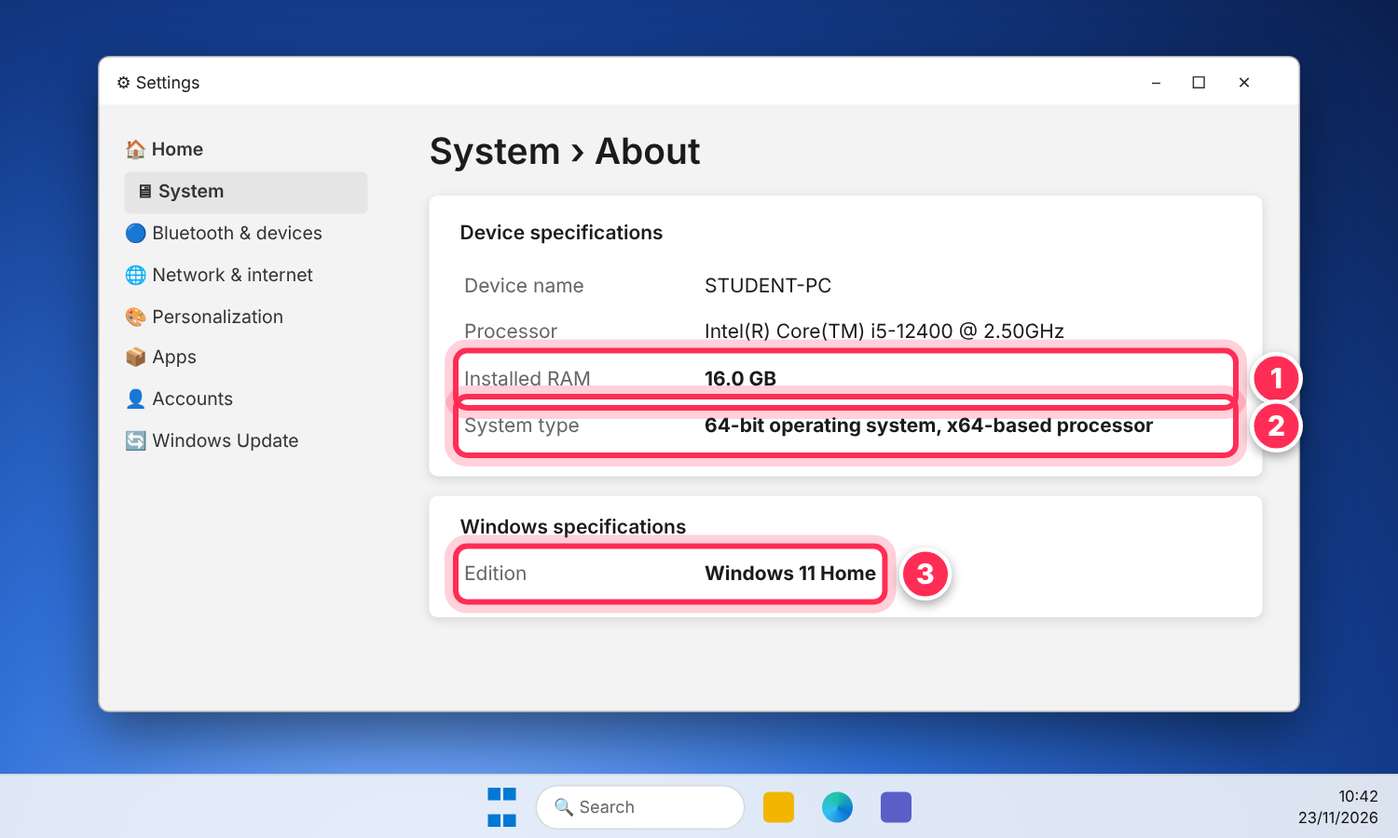
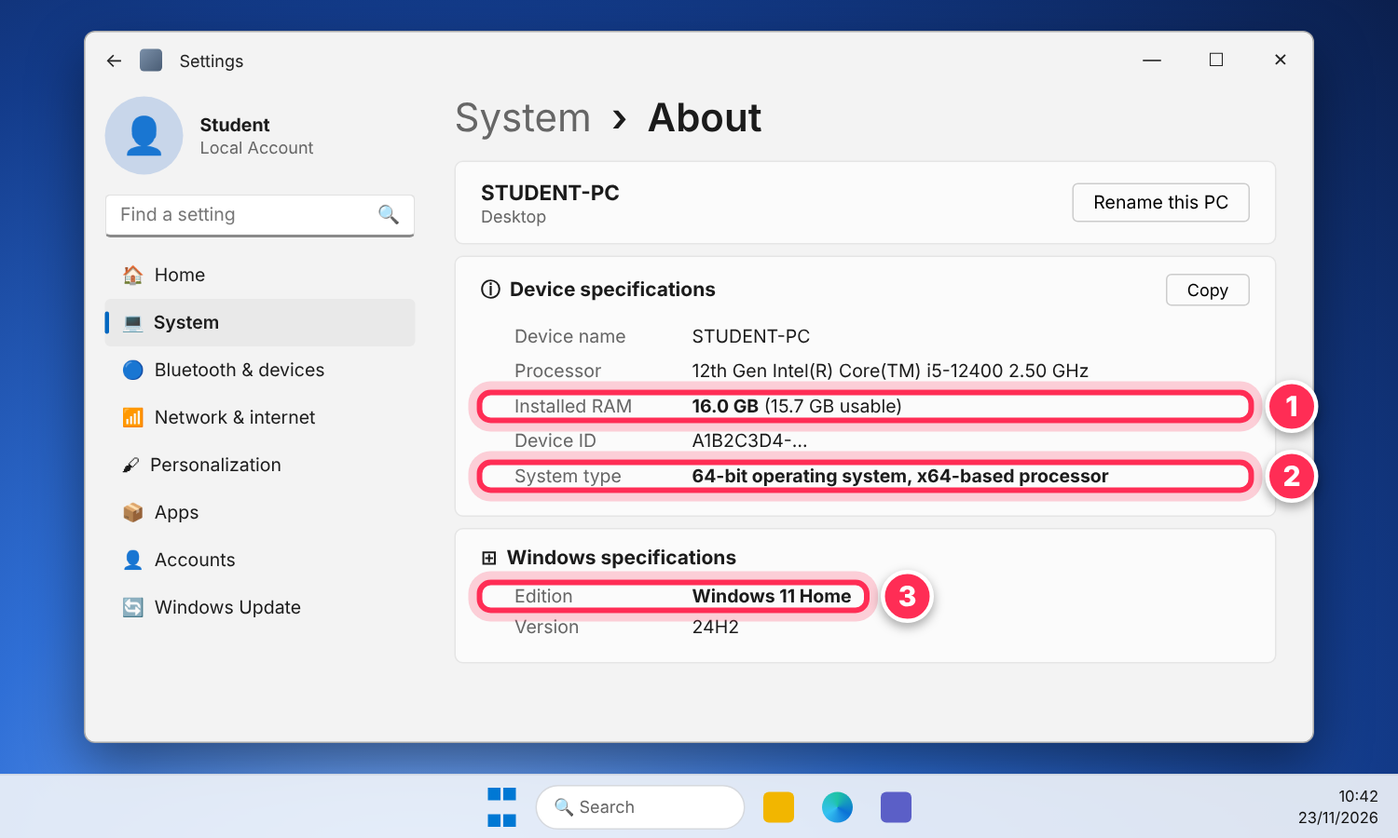
Redraw Windows Settings > About illustration, fix overlapping highlights, cache-bust images
Claude-Session: https://claude.ai/code/session_01HfNHHeuN3o1NZDg6FJ5LBf

Changed region(s): [[0.0307, 0.0311, 0.9507, 0.9333], [0.7667, 0.2178, 0.8893, 0.2489], [0.828, 0.3422, 0.8893, 0.3733]]

diff --git a/index.html b/index.html
@@ -74,7 +74,7 @@
 <li>לחצו על <b>מערכת (System)</b> ואז גללו למטה ולחצו על <b>אודות (About)</b>.</li>
 <li>בדקו את הנתונים המסומנים בתמונה:</li>
 </ol>
-<figure><img alt="חלון הגדרות של Windows – System &gt; About, עם סימון על הזיכרון וסוג המערכת" loading="lazy" src="images/01-system-about.png"/><figcaption>הגדרות ← מערכת ← אודות</figcaption></figure>
+<figure><img alt="חלון הגדרות של Windows – System &gt; About, עם סימון על הזיכרון וסוג המערכת" loading="lazy" src="images/01-system-about.png?v=3"/><figcaption>הגדרות ← מערכת ← אודות</figcaption></figure>
 <table class="req">
 <tr><th>#</th><th>מה בודקים</th><th>מינימום</th><th>מומלץ</th></tr>
 <tr><td>1</td><td>זיכרון (Installed RAM)</td><td>8 GB</td><td>16 GB ומעלה</td></tr>
@@ -94,16 +94,16 @@
 <a class="link-big" href="https://www.autodesk.com/education/edu-software/overview" rel="noopener" target="_blank">autodesk.com/education/edu-software/overview ↗</a></li>
 <li>לחצו על הכפתור השחור <b>Get started</b> (סימון 1).</li>
 </ol>
-<figure><img alt="דף Autodesk Education עם הכפתור Get started מסומן" loading="lazy" src="images/02-education-page.png"/><figcaption>דף התוכנות החינמיות לתלמידים ומורים</figcaption></figure>
+<figure><img alt="דף Autodesk Education עם הכפתור Get started מסומן" loading="lazy" src="images/02-education-page.png?v=3"/><figcaption>דף התוכנות החינמיות לתלמידים ומורים</figcaption></figure>
 <div class="warn"><b>⚠ זהירות מאתרים מזויפים!</b> הורידו <u>רק</u> מהאתר הרשמי <code>autodesk.com</code>. אתרים שמציעים "AutoCAD מלא בחינם" או "קראק" מכילים לעיתים קרובות וירוסים – ובכלל לא צריך אותם, כי לתלמידים זה חינם באופן חוקי.</div>
 </section>
 <!-- STEP 3 -->
 <section class="step" data-step="3" id="s3">
 <header><span class="n">3</span><h2>יצירת חשבון Autodesk</h2><label class="done"><input type="checkbox"/> סיימתי</label></header>
 <p>ייפתח מסך התחברות. אם עוד אין לכם חשבון – לוחצים על <b>Create account</b>.</p>
-<figure><img alt="מסך Sign in של Autodesk עם הקישור Create account מסומן" loading="lazy" src="images/03-sign-in.png"/><figcaption>מסך ההתחברות – לחצו על Create account</figcaption></figure>
+<figure><img alt="מסך Sign in של Autodesk עם הקישור Create account מסומן" loading="lazy" src="images/03-sign-in.png?v=3"/><figcaption>מסך ההתחברות – לחצו על Create account</figcaption></figure>
 <p>עכשיו ממלאים את הפרטים. <b>חשוב למלא נכון</b> – לפי הפרטים האלה Autodesk תבדוק שאתם באמת תלמידים:</p>
-<figure><img alt="טופס Get educational access עם השדות מסומנים 1 עד 5" loading="lazy" src="images/04-create-account.png"/><figcaption>טופס פתיחת חשבון חינוכי</figcaption></figure>
+<figure><img alt="טופס Get educational access עם השדות מסומנים 1 עד 5" loading="lazy" src="images/04-create-account.png?v=3"/><figcaption>טופס פתיחת חשבון חינוכי</figcaption></figure>
 <table class="req fields">
 <tr><th>#</th><th>שדה באנגלית</th><th>מה לבחור / לכתוב</th></tr>
 <tr><td>1</td><td>Country, Territory, or Region</td><td><b>Israel</b></td></tr>
@@ -120,7 +120,7 @@
 <section class="step" data-step="4" id="s4">
 <header><span class="n">4</span><h2>אימות שאתם תלמידים</h2><label class="done"><input type="checkbox"/> סיימתי</label></header>
 <p>Autodesk צריכה לוודא שאתם באמת לומדים במוסד חינוכי. לפעמים זה קורה אוטומטית, ולפעמים יופיע מסך <b>Confirm your education status</b>:</p>
-<figure><img alt="מסך Confirm your education status עם שם בית הספר, העלאת מסמך וכפתור Submit מסומנים" loading="lazy" src="images/05-verify.png"/><figcaption>העלאת אישור לימודים</figcaption></figure>
+<figure><img alt="מסך Confirm your education status עם שם בית הספר, העלאת מסמך וכפתור Submit מסומנים" loading="lazy" src="images/05-verify.png?v=3"/><figcaption>העלאת אישור לימודים</figcaption></figure>
 <ol>
 <li><b>Educational institution name</b> – התחילו להקליד את שם בית הספר באנגלית ובחרו מהרשימה. אם לא מופיע – נסו שם העיר או כתיב אחר, או בקשו מהמורה את השם המדויק.</li>
 <li><b>העלאת מסמך</b> – גררו לכאן, או לחצו על <i>browse</i> ובחרו את הצילום של אישור הלימודים.</li>
@@ -136,7 +136,7 @@
 <section class="step" data-step="5" id="s5">
 <header><span class="n">5</span><h2>קבלת אישור במייל</h2><label class="done"><input type="checkbox"/> סיימתי</label></header>
 <p>כשהאימות יאושר, יגיע מייל מ-<b>Autodesk Education</b> עם כותרת כמו <i>"You're verified for educational access"</i>.</p>
-<figure><img alt="מייל אישור מ-Autodesk Education עם כפתור Get products מסומן" loading="lazy" src="images/06-approved-mail.png"/><figcaption>מייל האישור</figcaption></figure>
+<figure><img alt="מייל אישור מ-Autodesk Education עם כפתור Get products מסומן" loading="lazy" src="images/06-approved-mail.png?v=3"/><figcaption>מייל האישור</figcaption></figure>
 <ol>
 <li>פתחו את המייל (בדקו גם בתיקיית <b>ספאם / קידומי מכירות</b>!).</li>
 <li>לחצו <b>Get products</b> – או פשוט חזרו לכתובת מהשלב השני והתחברו.</li>
@@ -145,7 +145,7 @@
 <!-- STEP 6 -->
 <section class="step" data-step="6" id="s6">
 <header><span class="n">6</span><h2>בחירת AutoCAD מרשימת התוכנות</h2><label class="done"><input type="checkbox"/> סיימתי</label></header>
-<figure><img alt="רשימת תוכנות Autodesk עם שדה חיפוש וכפתור Get product של AutoCAD מסומנים" loading="lazy" src="images/07-products.png"/><figcaption>רשימת התוכנות החינמיות</figcaption></figure>
+<figure><img alt="רשימת תוכנות Autodesk עם שדה חיפוש וכפתור Get product של AutoCAD מסומנים" loading="lazy" src="images/07-products.png?v=3"/><figcaption>רשימת התוכנות החינמיות</figcaption></figure>
 <ol>
 <li>בשדה החיפוש כתבו <b>AutoCAD</b>.</li>
 <li>בכרטיס של <b>AutoCAD</b> (הסמל האדום עם האות A) לחצו <b>Get product</b>.</li>
@@ -157,7 +157,7 @@
 <header><span class="n">7</span><h2>בחירת גרסה והורדה</h2><label class="done"><input type="checkbox"/> סיימתי</label></header>
 
 <p>ייפתח חלון קטן עם אפשרויות ההורדה:</p>
-<figure><img alt="חלון בחירת גרסה, מערכת הפעלה ושפה, עם כפתור Install מסומן" loading="lazy" src="images/08-download-options.png"/><figcaption>בחירת גרסה, מערכת הפעלה ושפה</figcaption></figure>
+<figure><img alt="חלון בחירת גרסה, מערכת הפעלה ושפה, עם כפתור Install מסומן" loading="lazy" src="images/08-download-options.png?v=3"/><figcaption>בחירת גרסה, מערכת הפעלה ושפה</figcaption></figure>
 <table class="req fields">
 <tr><th>#</th><th>שדה</th><th>מה לבחור</th></tr>
 <tr><td>1</td><td>Version</td><td>הגרסה <b>שהמורה ביקש</b>. אם לא נאמר – הגרסה הכי חדשה (המספר הכי גבוה).</td></tr>
@@ -166,7 +166,7 @@
 <tr><td>4</td><td>Install</td><td>לוחצים – מתחילה הורדה של קובץ קטן</td></tr>
 </table>
 <p>הדפדפן יוריד קובץ קטן (בערך 10–20MB) שנקרא משהו כמו <code>AutoCAD_2027_English_win_64bit_installer.exe</code>.</p>
-<figure><img alt="חלונית ההורדות של הדפדפן עם קובץ ההתקנה וקישור Open file" loading="lazy" src="images/09-downloaded.png"/><figcaption>הקובץ שהורד – לחצו Open file</figcaption></figure>
+<figure><img alt="חלונית ההורדות של הדפדפן עם קובץ ההתקנה וקישור Open file" loading="lazy" src="images/09-downloaded.png?v=3"/><figcaption>הקובץ שהורד – לחצו Open file</figcaption></figure>
 <p>לחצו עליו בחלונית ההורדות (<b>Open file</b>), או פתחו את תיקיית <b>הורדות (Downloads)</b> ולחצו עליו לחיצה כפולה.</p>
 <div class="tip"><b>💡 למה הקובץ כל כך קטן?</b> זה רק "מתקין". את התוכנה עצמה (כמה GB) הוא יוריד בזמן ההתקנה – לכן חייבים להישאר מחוברים לאינטרנט.</div>
 
@@ -177,23 +177,23 @@
 
 <h3>8.1 – אישור הרשאות</h3>
 <p>Windows ישאל אם לאפשר לתוכנה לבצע שינויים. ודאו שכתוב <b>Verified publisher: Autodesk, Inc.</b> ולחצו <b>Yes / כן</b>.</p>
-<figure><img alt="חלון בקרת חשבון משתמש של Windows עם הכפתור Yes מסומן" loading="lazy" src="images/10-uac.png"/><figcaption>בקרת חשבון משתמש (UAC)</figcaption></figure>
+<figure><img alt="חלון בקרת חשבון משתמש של Windows עם הכפתור Yes מסומן" loading="lazy" src="images/10-uac.png?v=3"/><figcaption>בקרת חשבון משתמש (UAC)</figcaption></figure>
 <div class="tip">אם מופיעה בקשת סיסמה – צריך את סיסמת המנהל של המחשב (בקשו מההורים).</div>
 <h3>8.2 – הסכמה לתנאי השימוש</h3>
-<figure><img alt="מתקין AutoCAD במסך תנאי השימוש, עם תיבת הסימון וכפתור Next מסומנים" loading="lazy" src="images/11-license.png"/><figcaption>תנאי השימוש</figcaption></figure>
+<figure><img alt="מתקין AutoCAD במסך תנאי השימוש, עם תיבת הסימון וכפתור Next מסומנים" loading="lazy" src="images/11-license.png?v=3"/><figcaption>תנאי השימוש</figcaption></figure>
 <ol>
 <li>סמנו ✔ <b>I agree to the Terms of Use</b>.</li>
 <li>לחצו <b>Next</b>.</li>
 </ol>
 <h3>8.3 – מיקום ההתקנה</h3>
-<figure><img alt="מסך בחירת מיקום התקנה עם הנתיב, נפח פנוי וכפתור Install מסומנים" loading="lazy" src="images/12-location.png"/><figcaption>מיקום ההתקנה</figcaption></figure>
+<figure><img alt="מסך בחירת מיקום התקנה עם הנתיב, נפח פנוי וכפתור Install מסומנים" loading="lazy" src="images/12-location.png?v=3"/><figcaption>מיקום ההתקנה</figcaption></figure>
 <ol>
 <li>השאירו את המיקום הקבוע <code>C:\Program Files\Autodesk\</code> – לא צריך לשנות.</li>
 <li>ודאו שיש מספיק מקום פנוי (Space available גדול מ-Space required).</li>
 <li>לחצו <b>Install</b>.</li>
 </ol>
 <h3>8.4 – ממתינים…</h3>
-<figure><img alt="מתקין AutoCAD באמצע התקנה עם פס התקדמות מסומן" loading="lazy" src="images/13-progress.png"/><figcaption>ההתקנה בתהליך</figcaption></figure>
+<figure><img alt="מתקין AutoCAD באמצע התקנה עם פס התקדמות מסומן" loading="lazy" src="images/13-progress.png?v=3"/><figcaption>ההתקנה בתהליך</figcaption></figure>
 <p>ההתקנה לוקחת בדרך כלל <b>20–60 דקות</b>, תלוי במהירות האינטרנט והמחשב. בזמן הזה:</p>
 <ul>
 <li>❌ לא לסגור את החלון.</li>
@@ -201,7 +201,7 @@
 <li>✅ אפשר להשתמש במחשב לדברים אחרים, אבל עדיף לא להוריד במקביל דברים כבדים.</li>
 </ul>
 <h3>8.5 – סיום</h3>
-<figure><img alt="מסך Installation complete עם כפתור Start מסומן" loading="lazy" src="images/14-complete.png"/><figcaption>ההתקנה הסתיימה</figcaption></figure>
+<figure><img alt="מסך Installation complete עם כפתור Start מסומן" loading="lazy" src="images/14-complete.png?v=3"/><figcaption>ההתקנה הסתיימה</figcaption></figure>
 <p>כשמופיע <b>Installation complete</b> – לחצו <b>Start</b>. אם המתקין מבקש להפעיל מחדש את המחשב (<i>Restart</i>) – עשו זאת קודם.</p>
 
 </section>
@@ -210,14 +210,14 @@
 <header><span class="n">9</span><h2>הפעלה ראשונה והתחברות</h2><label class="done"><input type="checkbox"/> סיימתי</label></header>
 
 <p>בפעם הראשונה AutoCAD יבקש להתחבר. זה מה שמפעיל את הרישיון החינמי.</p>
-<figure><img alt="מסך התחברות בהפעלה הראשונה של AutoCAD עם שדה Email וכפתור Next מסומנים" loading="lazy" src="images/15-launch-signin.png"/><figcaption>התחברות בהפעלה הראשונה</figcaption></figure>
+<figure><img alt="מסך התחברות בהפעלה הראשונה של AutoCAD עם שדה Email וכפתור Next מסומנים" loading="lazy" src="images/15-launch-signin.png?v=3"/><figcaption>התחברות בהפעלה הראשונה</figcaption></figure>
 <ol>
 <li>כתבו את <b>אותו המייל</b> שאיתו נרשמתם בשלב 3.</li>
 <li>לחצו <b>Next</b>, הקלידו סיסמה ואשרו.</li>
 </ol>
 <p>בפעמים הבאות תמצאו את התוכנה בתפריט <b>התחל</b> או בסמל האדום <b>A</b> על שולחן העבודה.</p>
 
-<figure><img alt="מסך הפתיחה של AutoCAD עם הכפתור New ושורת הכותרת EDUCATIONAL VERSION מסומנים" loading="lazy" src="images/16-start.png"/><figcaption>מסך הפתיחה (Start)</figcaption></figure>
+<figure><img alt="מסך הפתיחה של AutoCAD עם הכפתור New ושורת הכותרת EDUCATIONAL VERSION מסומנים" loading="lazy" src="images/16-start.png?v=3"/><figcaption>מסך הפתיחה (Start)</figcaption></figure>
 <ol>
 <li>לחצו <b>New</b> כדי לפתוח שרטוט חדש.</li>
 <li>בשורת הכותרת כתוב <b>EDUCATIONAL VERSION</b> – סימן שהרישיון החינוכי פעיל. 🎉</li>
@@ -229,7 +229,7 @@
 <header><span class="n">10</span><h2>בדיקה – השרטוט הראשון</h2><label class="done"><input type="checkbox"/> סיימתי</label></header>
 <p>בואו נוודא שהכול עובד:</p>
 
-<figure><img alt="מסך העבודה של AutoCAD: סרגל Draw, שורת הפקודה ומלבן ועיגול משורטטים מסומנים" loading="lazy" src="images/17-drawing.png"/><figcaption>מסך העבודה של AutoCAD</figcaption></figure>
+<figure><img alt="מסך העבודה של AutoCAD: סרגל Draw, שורת הפקודה ומלבן ועיגול משורטטים מסומנים" loading="lazy" src="images/17-drawing.png?v=3"/><figcaption>מסך העבודה של AutoCAD</figcaption></figure>
 <ol>
 <li><b>סרגל הכלים (Ribbon)</b> – בלשונית <i>Home</i>, בקבוצה <i>Draw</i> נמצאים כלי השרטוט: קו, עיגול, מלבן…</li>
 <li><b>שורת הפקודה</b> – כאן מקלידים פקודות. נסו: הקלידו <code>REC</code> ולחצו <kbd>Enter</kbd>, לחצו פעמיים על המסך – נוצר מלבן. אחר כך <code>C</code> ↵ ליצירת עיגול.</li>

diff --git a/mockups/mockups.html b/mockups/mockups.html
@@ -124,33 +124,52 @@
 
 <!-- 01 — Windows: check system (Settings > System > About) -->
 <div class="shot desk" id="01-system-about">
-  <div class="win" style="left:70px;top:40px;width:860px;height:470px;background:#f3f3f3">
-    <div class="title">⚙ Settings<span class="x">–□✕</span></div>
-    <div style="display:flex;height:100%">
-      <div style="width:210px;padding:18px;font-size:13px;line-height:2.3;color:#333">
-        <div style="font-weight:600">🏠 Home</div>
-        <div style="background:#e5e5e5;border-radius:4px;padding-left:8px;font-weight:600">🖥 System</div>
-        <div>🔵 Bluetooth &amp; devices</div><div>🌐 Network &amp; internet</div><div>🎨 Personalization</div><div>📦 Apps</div><div>👤 Accounts</div><div>🔄 Windows Update</div>
+  <div class="win" style="left:60px;top:22px;width:880px;height:510px;background:#f3f3f3;border-radius:8px">
+    <div style="height:40px;display:flex;align-items:center;padding-left:14px;font-size:12px;gap:12px;color:#222">
+      <span style="font-size:14px">←</span><span style="display:inline-block;width:16px;height:16px;border-radius:3px;background:linear-gradient(135deg,#7a8fa8,#4a5d75)"></span>Settings
+      <div class="winctl" style="height:40px;margin-left:auto"><span>—</span><span>☐</span><span>✕</span></div>
+    </div>
+    <div style="display:flex;height:calc(100% - 40px)">
+      <div style="width:250px;padding:6px 14px;font-size:13px;color:#1b1b1b">
+        <div style="display:flex;gap:12px;align-items:center;margin-bottom:14px">
+          <div style="width:56px;height:56px;border-radius:50%;background:#c8d6ea;display:flex;align-items:center;justify-content:center;font-size:26px">👤</div>
+          <div><b>Student</b><div class="muted" style="font-size:12px">Local Account</div></div>
+        </div>
+        <div style="background:#fff;border:1px solid #e1e1e1;border-bottom:2px solid #8a8a8a;border-radius:4px;padding:6px 10px;color:#777;margin-bottom:10px;display:flex">Find a setting<span style="margin-left:auto">🔍</span></div>
+        <div style="line-height:34px">
+          <div style="padding-left:12px">🏠&nbsp; Home</div>
+          <div style="padding-left:12px;background:#e9e9e9;border-radius:4px;position:relative;font-weight:600"><span style="position:absolute;left:0;top:9px;width:3px;height:16px;background:#0067c0;border-radius:2px"></span>💻&nbsp; System</div>
+          <div style="padding-left:12px">🔵&nbsp; Bluetooth &amp; devices</div>
+          <div style="padding-left:12px">📶&nbsp; Network &amp; internet</div>
+          <div style="padding-left:12px">🖌&nbsp; Personalization</div>
+          <div style="padding-left:12px">📦&nbsp; Apps</div>
+          <div style="padding-left:12px">👤&nbsp; Accounts</div>
+          <div style="padding-left:12px">🔄&nbsp; Windows Update</div>
+        </div>
       </div>
-      <div style="flex:1;padding:18px 26px">
-        <div style="font-size:26px;font-weight:600;margin-bottom:16px">System › About</div>
-        <div class="card" style="padding:18px 22px">
-          <div style="font-weight:600;margin-bottom:12px">Device specifications</div>
-          <table style="font-size:14px;line-height:2.1;width:100%">
-            <tr><td class="muted" style="width:170px">Device name</td><td>STUDENT-PC</td></tr>
-            <tr><td class="muted">Processor</td><td>Intel(R) Core(TM) i5-12400 @ 2.50GHz</td></tr>
-            <tr data-hl="1"><td class="muted">Installed RAM</td><td><b>16.0 GB</b></td></tr>
-            <tr data-hl="2"><td class="muted">System type</td><td><b>64-bit operating system, x64-based processor</b></td></tr>
+      <div style="flex:1;padding:4px 26px 0 14px">
+        <div style="font-size:28px;font-weight:600;margin-bottom:14px"><span class="muted" style="font-weight:400">System</span> &nbsp;›&nbsp; About</div>
+        <div style="background:#fbfbfb;border:1px solid #e5e5e5;border-radius:6px;padding:12px 18px;display:flex;align-items:center;margin-bottom:8px">
+          <div><b style="font-size:15px">STUDENT-PC</b><div class="muted" style="font-size:12px">Desktop</div></div>
+          <span class="btn wingrey" style="margin-left:auto;padding:5px 14px;font-size:13px">Rename this PC</span>
+        </div>
+        <div style="background:#fbfbfb;border:1px solid #e5e5e5;border-radius:6px;padding:12px 18px;margin-bottom:8px">
+          <div style="display:flex;align-items:center;margin-bottom:6px"><b>ⓘ&nbsp; Device specifications</b><span class="btn wingrey" style="margin-left:auto;padding:3px 14px;font-size:12px">Copy</span></div>
+          <table style="font-size:13px;width:100%;border-collapse:separate;border-spacing:0 7px">
+            <tr><td class="muted" style="width:150px;padding-left:24px">Device name</td><td>STUDENT-PC</td></tr>
+            <tr><td class="muted" style="padding-left:24px">Processor</td><td>12th Gen Intel(R) Core(TM) i5-12400 2.50 GHz</td></tr>
+            <tr data-hl="1" data-pad="3"><td class="muted" style="padding-left:24px">Installed RAM</td><td><b>16.0 GB</b> (15.7 GB usable)</td></tr>
+            <tr><td class="muted" style="padding-left:24px">Device ID</td><td>A1B2C3D4-…</td></tr>
+            <tr data-hl="2" data-pad="3"><td class="muted" style="padding-left:24px">System type</td><td><b>64-bit operating system, x64-based processor</b></td></tr>
           </table>
         </div>
-        <div class="card" style="padding:14px 22px;margin-top:14px">
-          <div style="font-weight:600;margin-bottom:8px">Windows specifications</div>
-          <table style="font-size:14px;line-height:2"><tr data-hl="3"><td class="muted" style="width:170px">Edition</td><td><b>Windows 11 Home</b></td></tr></table>
+        <div style="background:#fbfbfb;border:1px solid #e5e5e5;border-radius:6px;padding:12px 18px">
+          <div style="margin-bottom:6px"><b>⊞&nbsp; Windows specifications</b></div>
+          <table style="font-size:13px;border-collapse:separate;border-spacing:0 4px"><tr data-hl="3" data-pad="3"><td class="muted" style="width:150px;padding-left:24px">Edition</td><td style="padding-right:10px"><b>Windows 11 Home</b></td></tr><tr><td class="muted" style="padding-left:24px">Version</td><td>24H2</td></tr></table>
         </div>
       </div>
     </div>
   </div>
-  
 </div>
 
 <!-- 02 — Autodesk education page -->
@@ -493,7 +512,7 @@ document.querySelectorAll('.shot').forEach(function (shot) {
 document.querySelectorAll('.shot').forEach(shot => {
   const sr = shot.getBoundingClientRect();
   shot.querySelectorAll('[data-hl]').forEach(el => {
-    const r = el.getBoundingClientRect(), pad = 7;
+    const r = el.getBoundingClientRect(), pad = +(el.dataset.pad || 7);
     const x = r.left - sr.left - pad, y = r.top - sr.top - pad, w = r.width + pad*2, h = r.height + pad*2;
     const hl = document.createElement('div'); hl.className = 'hl';
     Object.assign(hl.style, {left: x+'px', top: y+'px', width: w+'px', height: h+'px'}); shot.appendChild(hl);
